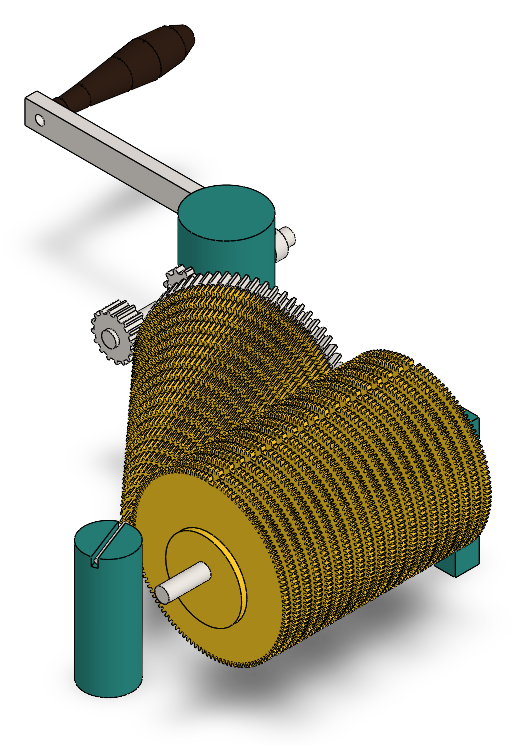
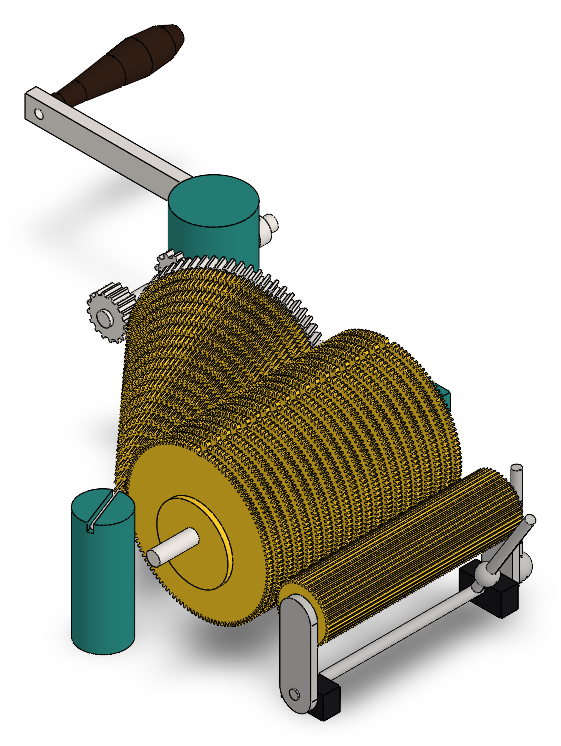
ch25: trim drum to 139 / raise pivot 62.8 -- back hardware clears rocker-support frustum

diff --git a/cad/scripts/build_drive_train_assembly.py b/cad/scripts/build_drive_train_assembly.py
@@ -223,24 +223,34 @@ PIVOT_POST_STATION = -1.0
 KNOB_POST_STATION = 177.0  # thin-tip journal; z 90.0, x -2.1 (p.18)
 
 # --- alignment pinion (ch. 25): carried DISENGAGED (p. 68 "gap") ---
-# The 42T DP 30 pinion drum spans all 20 drum stations on the drum's
-# far (-x) side, low (p. 67: opposite the cone/crank, hidden behind
-# the A-frame in the ch30 front plates); two swing straps butt against
-# the drum end faces and pivot on a torque shaft through base blocks;
-# the engage lever stands up (p. 68: up = disengaged, flat = engaged).
-# The straps hang exactly vertical in this pose (the pivot sits
-# directly below the pinion axis) and PINION_X backs the tip circles
-# off to the PINION_GAP clearance.
+# The 42T DP 30 pinion drum rides low on the drum's far (-x) side
+# (p. 67: opposite the cone/crank, hidden behind the A-frame in the
+# ch30 front plates); two swing straps butt against the drum end faces
+# and pivot on a torque shaft through base blocks; the engage lever
+# stands up (p. 68: up = disengaged, flat = engaged). The straps hang
+# exactly vertical in this pose (the pivot sits directly below the
+# pinion axis) and PINION_X backs the tip circles off to PINION_GAP.
+#
+# The photo-calibrated rocker-support frustum (frame.SLDASM: base
+# 88.9 x 63.5 at (x -72.9, z 101.6), so x to -117.35 / z from 69.85 at
+# the base, tapering up) fills the space the real machine's slimmer
+# north support leaves for the back bracket. The drum is therefore
+# trimmed to z -75..+64: stations 0..18 covered, the j = 19 station
+# (z 65.5..68.5) NOT reached -- engaged alignment would turn 19 of the
+# 20 gears (Appendix C). Back strap/block stay under z 69, the torque
+# shaft ends at z 70 (the frustum corner above it is at z 71.4).
 PINION_TEETH = 42
 TIP_DRUM = (122.0 / DP_TRAIN) * 25.4 / 2.0  # 51.647: 120T tip radius
 TIP_PINION = ((PINION_TEETH + 2.0) / DP_TRAIN) * 25.4 / 2.0  # 18.627
 PINION_GAP = 2.0  # disengaged tip clearance
-PINION_DRUM_LEN = 150.0  # build_alignment_pinion FACE_WIDTH
-PIVOT_Y = Y_BASE_TOP + 10.3  # 61.1: pivot-block bore height
-PINION_Y = PIVOT_Y + 47.0  # 108.1: strap c2c (build_pinion_bracket C2C)
+PINION_DRUM_LEN = 139.0  # build_alignment_pinion FACE_WIDTH
+PINION_Z_FRONT = -75.0  # drum front end face (front strap inner face)
+PIVOT_Y = Y_BASE_TOP + 12.0  # 62.8: pivot-block bore height; the strap's
+# r 11 bottom cap swings 1.0 clear of the base top
+PINION_Y = PIVOT_Y + 47.0  # 109.8: strap c2c (build_pinion_bracket C2C)
 PINION_X = X_DRUM - math.sqrt(
     (TIP_DRUM + TIP_PINION + PINION_GAP) ** 2 - (Y_DRIVE - PINION_Y) ** 2
-)  # -117.31
+)  # -117.75
 STRAP_T = 5.0  # build_pinion_bracket THICKNESS
 BLOCK_T = 12.0  # build_pinion_pivot_block DEPTH
 PINION_SHAFT_Z0 = -89.0  # ball centre; the Ø16 ball reaches z -97, 2.9
@@ -249,13 +259,19 @@ LEVER_TILT_DEG = 32.0  # from vertical, toward -x: the lever axis passes
 # 47*sin(tilt) = 24.9 from the pinion axis -> 3.3 clear of rod vs tips
 LEVER_Z = -59.0  # rod surface 1.0 behind the front block's back face
 
-# Drum coverage and lever clearance self-checks.
-if Z_DRUM0 - DRUM_FACE / 2.0 < -PINION_DRUM_LEN / 2.0 + 1.0:
+PINION_Z_BACK = PINION_Z_FRONT + PINION_DRUM_LEN  # 64.0
+
+# Drum coverage and clearance self-checks.
+if Z_DRUM0 - DRUM_FACE / 2.0 < PINION_Z_FRONT + 1.0:
     raise AssertionError("alignment pinion too short at the front station")
-if Z_DRUM0 + 19 * Z_PITCH + DRUM_FACE / 2.0 > PINION_DRUM_LEN / 2.0 - 1.0:
-    raise AssertionError("alignment pinion too short at the back station")
+if Z_DRUM0 + 18 * Z_PITCH + DRUM_FACE / 2.0 > PINION_Z_BACK - 1.0:
+    raise AssertionError("alignment pinion misses the j = 18 station")
+if PINION_Z_BACK + STRAP_T > 69.85 - 0.5:
+    raise AssertionError("back strap reaches the rocker-support frustum")
 if 47.0 * math.sin(math.radians(LEVER_TILT_DEG)) - TIP_PINION - 3.0 < 1.0:
     raise AssertionError("engage lever fouls the pinion drum")
+if PIVOT_Y - 11.0 < Y_BASE_TOP + 0.5:
+    raise AssertionError("strap bottom cap dips into the base top")
 
 IDENTITY = [[1.0, 0.0, 0.0], [0.0, 1.0, 0.0], [0.0, 0.0, 1.0]]
 ROT_X_POS90 = [[1.0, 0.0, 0.0], [0.0, 0.0, 1.0], [0.0, -1.0, 0.0]]
@@ -473,13 +489,13 @@ async def build(adapter) -> dict[str, str]:
     await _place(
         adapter,
         "alignment-pinion",
-        [PINION_X, PINION_Y, -PINION_DRUM_LEN / 2.0],
+        [PINION_X, PINION_Y, PINION_Z_FRONT],
         [0.0, 0.0, 0.0],
         IDENTITY,
     )
     for tag, z0 in (
-        ("front", -PINION_DRUM_LEN / 2.0 - STRAP_T),
-        ("back", PINION_DRUM_LEN / 2.0),
+        ("front", PINION_Z_FRONT - STRAP_T),
+        ("back", PINION_Z_BACK),
     ):
         await _place(
             adapter,
@@ -490,8 +506,8 @@ async def build(adapter) -> dict[str, str]:
             label=f"pinion-bracket {tag}",
         )
     for tag, z0 in (
-        ("front", -PINION_DRUM_LEN / 2.0),
-        ("back", PINION_DRUM_LEN / 2.0 - BLOCK_T),
+        ("front", PINION_Z_FRONT),
+        ("back", PINION_Z_BACK - BLOCK_T),
     ):
         await _place(
             adapter,

diff --git a/cad/scripts/build_pinion_pivot_shaft.py b/cad/scripts/build_pinion_pivot_shaft.py
@@ -11,10 +11,10 @@ Layout: shaft axis Z, shaft z 0..173, ball centred at the ORIGIN (the
 front half protrudes as the end knob), handle along Y from -9 to +61
 (asymmetric: the short side stops above the machine base).
 
-Volume gate (exact union, mm^3): shaft 5478.78 + ball 2144.66 + handle
+Volume gate (exact union, mm^3): shaft 5035.41 + ball 2144.66 + handle
 1979.20 - ball/shaft half-pass 243.10 - ball/handle full-pass 436.10
 (the handle/shaft Steinmetz region lies entirely inside the ball, so
-its -V and +V inclusion-exclusion terms cancel) = 8923.44.
+its -V and +V inclusion-exclusion terms cancel) = 8480.07.
 
 Dimensions: cad/DIMENSIONS.md "Chapter 25".
 
@@ -47,7 +47,8 @@ PART_NAME = "pinion-pivot-shaft"
 MATERIAL = "Plain Carbon Steel"  # bright steel (p.67)
 
 SHAFT_DIA = 6.35  # rides the strap and block bores (derived)
-SHAFT_LEN = 173.0  # front strap z -80 to 4 proud of the back strap (derived)
+SHAFT_LEN = 159.0  # ball centre z -89 to z +70: 1 proud of the back strap,
+# 1.4 clear of the rocker-support frustum's tapered west corner (derived)
 BALL_DIA = 16.0  # end ball, photo-scaled vs the 6 mm rod (low)
 HANDLE_DIA = 6.0  # T-handle rod, p.68 "6 mm" annotation (high)
 HANDLE_DOWN = 9.0  # below the ball centre -- stops 1.3 above the base (derived)

diff --git a/cad/scripts/build_pinion_pivot_block.py b/cad/scripts/build_pinion_pivot_block.py
@@ -6,7 +6,7 @@ for the Ø6.35 torque shaft the straps pivot on. The slotted screw heads
 on the plates are simplified away.
 
 Layout: shaft bore at the origin along Z, block x -15..15,
-y -10.3..3.7 (bore 10.3 above the base seat), z 0..12.
+y -12..4 (bore 12 above the base seat), z 0..12.
 
 Dimensions: cad/DIMENSIONS.md "Chapter 25".
 
@@ -39,9 +39,10 @@ PART_NAME = "pinion-pivot-block"
 MATERIAL = "Plain Carbon Steel"  # black-finished steel block (p.68)
 
 WIDTH = 30.0  # photo-scaled vs the strap (low)
-HEIGHT = 14.0  # photo-scaled (low)
+HEIGHT = 16.0  # photo-scaled (low); tall enough that the strap's r 11
+# bottom cap (PIVOT_Y - 11 = 51.8) swings clear of the base top 50.8
 DEPTH = 12.0  # photo-scaled (low)
-BORE_UP = 10.3  # bore height above the base seat -- sets PIVOT_Y (derived)
+BORE_UP = 12.0  # bore height above the base seat -- sets PIVOT_Y (derived)
 BORE = 6.35  # rides the Ø6.35 torque shaft (derived)
 
 

diff --git a/cad/scripts/build_alignment_pinion.py b/cad/scripts/build_alignment_pinion.py
@@ -36,7 +36,12 @@ PART_NAME = "alignment-pinion"
 MATERIAL = "Brass"  # p.67: brass drum, same finish as the cylinder train
 
 TEETH = 42  # DIMENSIONS.md ch25: counted on the p.67 plate (high)
-FACE_WIDTH = 150.0  # DIMENSIONS.md ch25: spans the 20-station stack (derived)
+FACE_WIDTH = 139.0  # DIMENSIONS.md ch25: covers drum stations 0..18 (derived).
+# The real drum spans all 20, but the model's photo-calibrated rocker-support
+# frustum (base 88.9 x 63.5 at z 69.85..133.35) fills the space the real
+# machine's slimmer north support leaves for the back swing bracket, so the
+# drum is trimmed to z -75..+64 and the j = 19 station (z 65.5..68.5) goes
+# uncovered -- documented in DIMENSIONS.md Appendix C.
 
 
 async def build(adapter) -> dict[str, str]:
